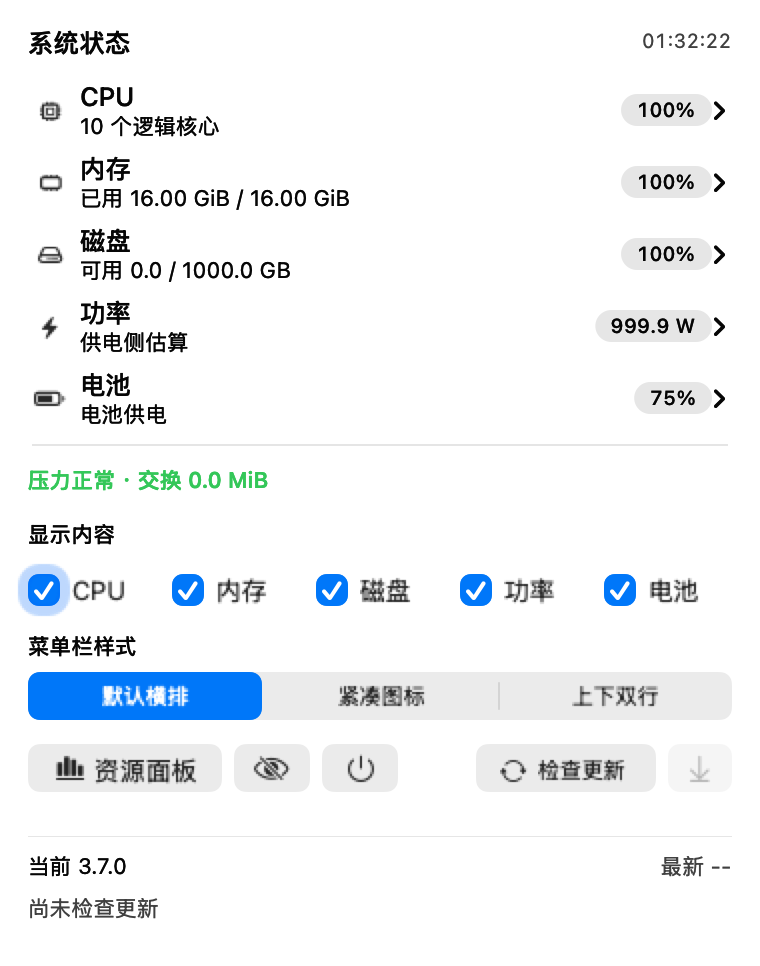
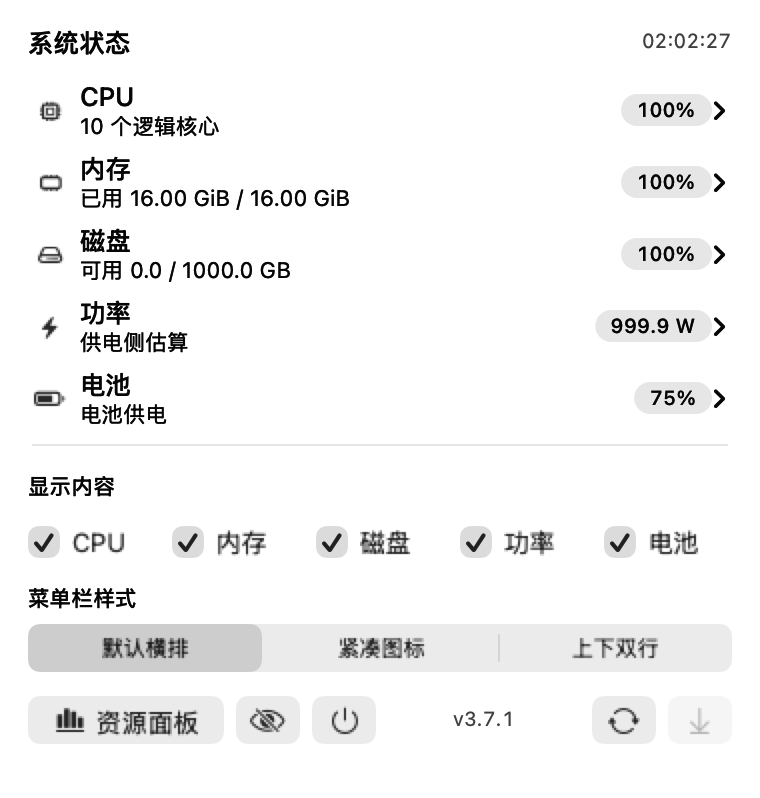
支持菜单栏即时切换，合并版本信息并精简主菜单

diff --git a/StatusMenuView.swift b/StatusMenuView.swift
@@ -5,8 +5,7 @@ final class StatusMenuController: NSObject, NSMenuDelegate {
     let header = NSView(frame: NSRect(x: 0, y: 0, width: 380, height: 32))
     let updates = UpdateStatusView(frame: NSRect(x: 0, y: 0, width: 352, height: 50), includesControls: false)
     private let timestamp = NSTextField(labelWithString: "--:--:--")
-    private let pressure = NSTextField(labelWithString: "压力未知")
-    private lazy var options = StatusMenuOptionsView(checkButton: updates.checkButton, downloadButton: updates.downloadButton)
+    private lazy var options = StatusMenuOptionsView(updates: updates)
     private(set) var items: [StatusDetail: NSMenuItem] = [:]
     private(set) var panels: [StatusDetail: StatusDetailView] = [:]
     private var snapshot: MetricsSnapshot?
@@ -53,17 +52,7 @@ final class StatusMenuController: NSObject, NSMenuDelegate {
             item.submenu = submenu; items[kind] = item; panels[kind] = panel; menu.addItem(item)
         }
         menu.addItem(.separator())
-        let pressureView = NSView(frame: NSRect(x: 0, y: 0, width: 380, height: 24))
-        pressure.font = .systemFont(ofSize: 11, weight: .medium)
-        pressure.translatesAutoresizingMaskIntoConstraints = false; pressureView.addSubview(pressure)
-        NSLayoutConstraint.activate([pressure.leadingAnchor.constraint(equalTo: pressureView.leadingAnchor, constant: 14), pressure.trailingAnchor.constraint(equalTo: pressureView.trailingAnchor, constant: -14), pressure.centerYAnchor.constraint(equalTo: pressureView.centerYAnchor)])
-        let pressureItem = NSMenuItem(); pressureItem.view = pressureView; pressureItem.isEnabled = false; menu.addItem(pressureItem)
         let footer = NSMenuItem(); footer.view = options; menu.addItem(footer)
-        let updateContainer = NSView(frame: NSRect(x: 0, y: 0, width: 380, height: 60))
-        updateContainer.addSubview(updates)
-        updates.frame.origin = NSPoint(x: 14, y: 10)
-        updates.autoresizingMask = [.width]
-        let updateItem = NSMenuItem(); updateItem.view = updateContainer; menu.addItem(updateItem)
         options.onSelection = { [weak self] in self?.onSelection?($0) }
         options.stylePicker.onChange = { [weak self] in self?.onStyleChanged?($0) }
         options.onOpenMonitor = { [weak self] in self?.menu.cancelTracking(); self?.onOpenMonitor?(0) }
@@ -103,13 +92,6 @@ final class StatusMenuController: NSObject, NSMenuDelegate {
     func update(_ snapshot: MetricsSnapshot) {
         self.snapshot = snapshot
         timestamp.stringValue = timeFormatter.string(from: snapshot.sampledAt)
-        pressure.stringValue = (snapshot.memory?.pressureLabel ?? "压力未知") + (snapshot.memory?.swap.map { " · 交换 " + memorySize($0) } ?? "")
-        switch snapshot.memory?.pressure {
-        case 1: pressure.textColor = .systemGreen
-        case 2: pressure.textColor = .systemOrange
-        case 4: pressure.textColor = .systemRed
-        default: pressure.textColor = .secondaryLabelColor
-        }
         panels.values.forEach { $0.update(snapshot) }
         updateRows()
     }
@@ -168,7 +150,7 @@ private final class StatusMenuOptionsView: NSView {
     var onDisable: (() -> Void)?
     var onQuit: (() -> Void)?
 
-    init(checkButton: NSButton, downloadButton: NSButton) {
+    init(updates: UpdateStatusView) {
         super.init(frame: NSRect(x: 0, y: 0, width: 380, height: 166))
         let label = NSTextField(labelWithString: "显示内容")
         label.font = .systemFont(ofSize: 11, weight: .medium)
@@ -180,16 +162,15 @@ private final class StatusMenuOptionsView: NSView {
         let open = NSButton(title: "资源面板", target: self, action: #selector(openMonitor))
         open.image = NSImage(systemSymbolName: "chart.bar.xaxis", accessibilityDescription: nil)
         open.imagePosition = .imageLeading; open.bezelStyle = .rounded
+        open.widthAnchor.constraint(equalToConstant: 98).isActive = true
         let hide = tool("eye.slash", "关闭菜单栏显示", #selector(disable))
         let quit = tool("power", "退出系统状态", #selector(quit))
-        checkButton.title = "检查更新"; checkButton.imagePosition = .imageLeading
-        checkButton.font = .systemFont(ofSize: 11)
-        checkButton.widthAnchor.constraint(equalToConstant: 90).isActive = true
+        let checkButton = updates.checkButton, downloadButton = updates.downloadButton
+        checkButton.widthAnchor.constraint(equalToConstant: 32).isActive = true
         downloadButton.widthAnchor.constraint(equalToConstant: 32).isActive = true
-        let spacer = NSView()
-        spacer.widthAnchor.constraint(greaterThanOrEqualToConstant: 0).isActive = true
-        let commands = NSStackView(views: [open, hide, quit, spacer, checkButton, downloadButton])
-        commands.orientation = .horizontal; commands.spacing = 6; commands.alignment = .centerY
+        updates.compactVersion.widthAnchor.constraint(greaterThanOrEqualToConstant: 0).isActive = true
+        let commands = NSStackView(views: [open, hide, quit, updates.compactVersion, checkButton, downloadButton])
+        commands.orientation = .horizontal; commands.spacing = 6; commands.alignment = .centerY; commands.distribution = .fill
         for view in [label, choices, styleLabel, stylePicker, commands] { view.translatesAutoresizingMaskIntoConstraints = false; addSubview(view) }
         NSLayoutConstraint.activate([
             label.leadingAnchor.constraint(equalTo: leadingAnchor, constant: 14), label.topAnchor.constraint(equalTo: topAnchor, constant: 8),
@@ -205,7 +186,7 @@ private final class StatusMenuOptionsView: NSView {
     private func tool(_ symbol: String, _ tooltip: String, _ action: Selector) -> NSButton {
         let button = NSButton(image: NSImage(systemSymbolName: symbol, accessibilityDescription: tooltip)!, target: self, action: action)
         button.bezelStyle = .rounded; button.toolTip = tooltip
-        button.widthAnchor.constraint(equalToConstant: 38).isActive = true
+        button.widthAnchor.constraint(equalToConstant: 32).isActive = true
         return button
     }
     func updateSelection(_ selected: Set<MenuBarMetric>) {

diff --git a/UpdateChecker.swift b/UpdateChecker.swift
@@ -122,6 +122,7 @@ final class UpdateStatusView: NSView {
     let current = NSTextField(labelWithString: "")
     let latest = NSTextField(labelWithString: "")
     let status = NSTextField(labelWithString: "尚未检查更新")
+    let compactVersion = NSTextField(labelWithString: "")
     let checkButton = NSButton()
     let downloadButton = NSButton()
     var onCheck: (() -> Void)?
@@ -135,6 +136,11 @@ final class UpdateStatusView: NSView {
             field.lineBreakMode = .byTruncatingTail
         }
         latest.alignment = .right
+        compactVersion.font = .monospacedDigitSystemFont(ofSize: 10, weight: .regular)
+        compactVersion.alignment = .center
+        compactVersion.lineBreakMode = .byTruncatingMiddle
+        compactVersion.setContentHuggingPriority(.defaultLow, for: .horizontal)
+        compactVersion.setContentCompressionResistancePriority(.defaultLow, for: .horizontal)
         for (button, symbol, title, action) in [(checkButton, "arrow.triangle.2.circlepath", "检查更新", #selector(check)), (downloadButton, "arrow.down.to.line", "下载新版本", #selector(download))] {
             button.image = NSImage(systemSymbolName: symbol, accessibilityDescription: title)
             button.imagePosition = .imageOnly; button.bezelStyle = .rounded
@@ -172,7 +178,13 @@ final class UpdateStatusView: NSView {
         latest.textColor = state.available ? .systemBlue : .secondaryLabelColor
         status.stringValue = state.message
         status.textColor = state.available ? .systemBlue : .secondaryLabelColor
+        compactVersion.stringValue = state.available ? state.currentVersion + " → " + (state.release?.version.text ?? "--") : "v" + state.currentVersion
+        compactVersion.textColor = state.phase == .failed ? .systemOrange : (state.available ? .systemBlue : .secondaryLabelColor)
+        compactVersion.toolTip = current.stringValue + "\n" + latest.stringValue + "\n" + state.message
+        compactVersion.setAccessibilityLabel(compactVersion.toolTip)
         current.toolTip = current.stringValue; latest.toolTip = latest.stringValue; status.toolTip = state.message
+        checkButton.toolTip = "检查更新：" + state.message
+        checkButton.image = NSImage(systemSymbolName: state.phase == .failed ? "exclamationmark.arrow.triangle.2.circlepath" : "arrow.triangle.2.circlepath", accessibilityDescription: "检查更新") ?? NSImage(systemSymbolName: "arrow.triangle.2.circlepath", accessibilityDescription: "检查更新")
         checkButton.isEnabled = state.phase != .checking
         downloadButton.isEnabled = state.available
     }

diff --git a/NativeHost.swift b/NativeHost.swift
@@ -120,13 +120,11 @@ final class NativeHostDelegate: NSObject, NSApplicationDelegate, NSWindowDelegat
         let selected = preferences.metrics
         statusMenuView.updateSelection(selected)
         statusMenuView.stylePicker.style = preferences.menuBarStyle
-        // Keep the status item's anchor stable until the user closes its menu.
-        guard !statusMenuIsOpen else { return }
         let visible = battery == nil ? selected.subtracting([.battery]) : selected
         let title = MenuBarMetric.title(for: visible, snapshot: snapshot, battery: battery)
         let presentation = MenuBarPresentation(style: preferences.menuBarStyle, metrics: visible, snapshot: snapshot, battery: battery, updateAvailable: updateChecker.state.available)
         let updateText = updateChecker.state.available ? "，有新版本" : ""
-        statusItem.length = presentation.width
+        if statusItem.length != presentation.width { statusItem.length = presentation.width }
         statusItem.button?.attributedTitle = presentation.title
         statusItem.button?.image = presentation.image
         statusItem.button?.setAccessibilityLabel(title.isEmpty && updateText.isEmpty ? "系统状态" : "系统状态，\(title)\(updateText)")

diff --git a/README.md b/README.md
@@ -2,13 +2,13 @@
 
 原生 macOS 资源面板、可选菜单栏监控与桌面小组件。查看各核心 CPU、进程内存、磁盘容量、电池与进程 CPU 能耗，并由用户选择退出进程。资源面板使用普通窗口，不会置顶。
 
-当前版本：**3.7.0**。安装后的应用和小组件名称均为 **“系统状态”**。
+当前版本：**3.7.1**。安装后的应用和小组件名称均为 **“系统状态”**。
 
 ## 下载安装
 
-**[下载安装包：MacPulse Widget 3.7.0（M 系列 Mac）](https://github.com/qwer8856/MACPulse-widget/releases/download/v3.7.0/MACPulse-Widget-v3.7.0-macOS-arm64.zip)**
+**[下载安装包：MacPulse Widget 3.7.1（M 系列 Mac）](https://github.com/qwer8856/MACPulse-widget/releases/download/v3.7.1/MACPulse-Widget-v3.7.1-macOS-arm64.zip)**
 
-[版本发布页与校验文件](https://github.com/qwer8856/MACPulse-widget/releases/tag/v3.7.0)
+[版本发布页与校验文件](https://github.com/qwer8856/MACPulse-widget/releases/tag/v3.7.1)
 
 需要 Apple Silicon Mac（M 系列）和 macOS 14 或更新版本。
 
@@ -26,7 +26,7 @@
 
 启动应用后会在后台检查一次 GitHub 最新正式发布版本。发现新版本时，已启用的顶部菜单栏显示更新图标和“有新版本”；展开菜单可查看当前版本和新版本号。资源窗口的“总览与设置”也显示相同信息。未开启菜单栏时仍保留用户的显示选择，不会强制开启常驻。
 
-菜单中“检查更新”位于“资源面板”、隐藏和退出按钮所在操作行的右侧，旁边是下载图标；当前版本、新版本和检查结果保留在下方。点击“检查更新”可手动检查，点击下载图标打开对应的 Releases 页面，下载并替换应用。资源面板内仍可点击循环箭头检查更新。检查更新不会自动安装。正在检查、已是最新版本、网络失败和检查频率受限均会显示状态，失败不会弹窗或影响资源监控。
+版本号、检查更新和下载按钮与“资源面板”、隐藏和退出按钮合并在同一操作行，不再占用底部独立区域。平时显示当前版本，有新版本时显示“当前版本 → 新版本”。悬停版本号可查看完整版本信息和检查结果，检查失败时版本号变为橙色。点击循环箭头可手动检查，点击下载图标打开对应的 Releases 页面，下载并替换应用。资源面板的更新区域保留完整信息。检查更新不会自动安装；失败不会弹窗或影响资源监控。
 
 更新检查仅向 GitHub 公开发布接口请求版本信息，不上传 CPU、内存、进程、电池或用户文件数据。每次启动检查一次，运行期间不定时轮询。
 
@@ -53,7 +53,7 @@
 
 ## 菜单栏与自动启动
 
-菜单栏的 CPU、内存、磁盘、功率、电池复选框支持**一次展开连续多选**，选择一项不会自动关闭菜单。全部取消时仅显示图标。展开期间固定顶部项目宽度，关闭菜单后应用新的显示组合；菜单中的采样数值继续更新。选择结果与窗口同步并保存。
+菜单栏的 CPU、内存、磁盘、功率、电池复选框支持**一次展开连续多选**，选择一项不会自动关闭菜单，顶部状态栏立即显示新的组合。全部取消时仅显示图标。菜单展开期间，顶部状态栏和菜单中的采样数值均继续更新。选择结果与窗口同步并保存。
 
 在菜单的“显示内容”下方，或资源面板的“总览与设置”中，使用“菜单栏样式”切换右上角的排列方式：
 
@@ -63,7 +63,9 @@
 | 紧凑图标 | 每项使用对应图标与读数，减少文字占用 |
 | 上下双行 | 上方为名称、下方为读数，电池上方显示电池及充电图标 |
 
-三种样式均支持任意指标组合、约每秒更新和新版本提示，自动适配深浅色。样式选择会保存，菜单与资源面板同步；在菜单中切换不会自动收起菜单，关闭菜单后应用新的顶部布局。每种布局为读数预留固定宽度，避免采样时挤动邻近状态栏项目。
+三种样式均支持任意指标组合、约每秒更新和新版本提示，自动适配深浅色。样式选择会保存，菜单与资源面板同步；在菜单中切换立即应用顶部布局，菜单保持展开。固定组合和样式下，读数预留宽度不随每秒采样变化；主动切换组合或样式时按新布局调整宽度。
+
+主菜单不再单独显示内存压力和交换空间，相关数据保留在内存详情与资源面板中。
 
 有内置电池的 MacBook 勾选“电池”后，右上角显示电池图标和剩余百分比，可与其他指标任意组合。图标随电量变化，正在充电时显示闪电标记，电量未知时显示 `--`。无内置电池时该选项置灰，顶部不显示电池读数。电池选项默认不勾选，升级保留已有选择。
 
